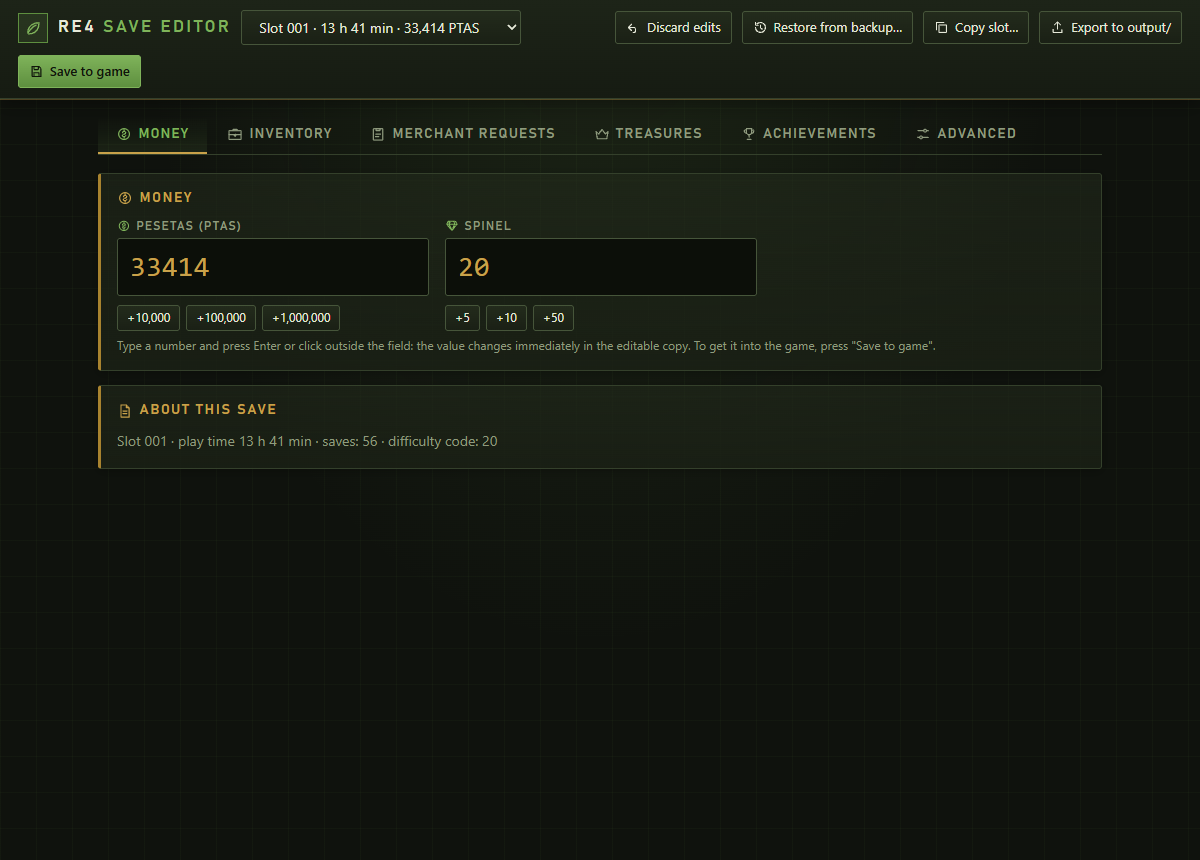
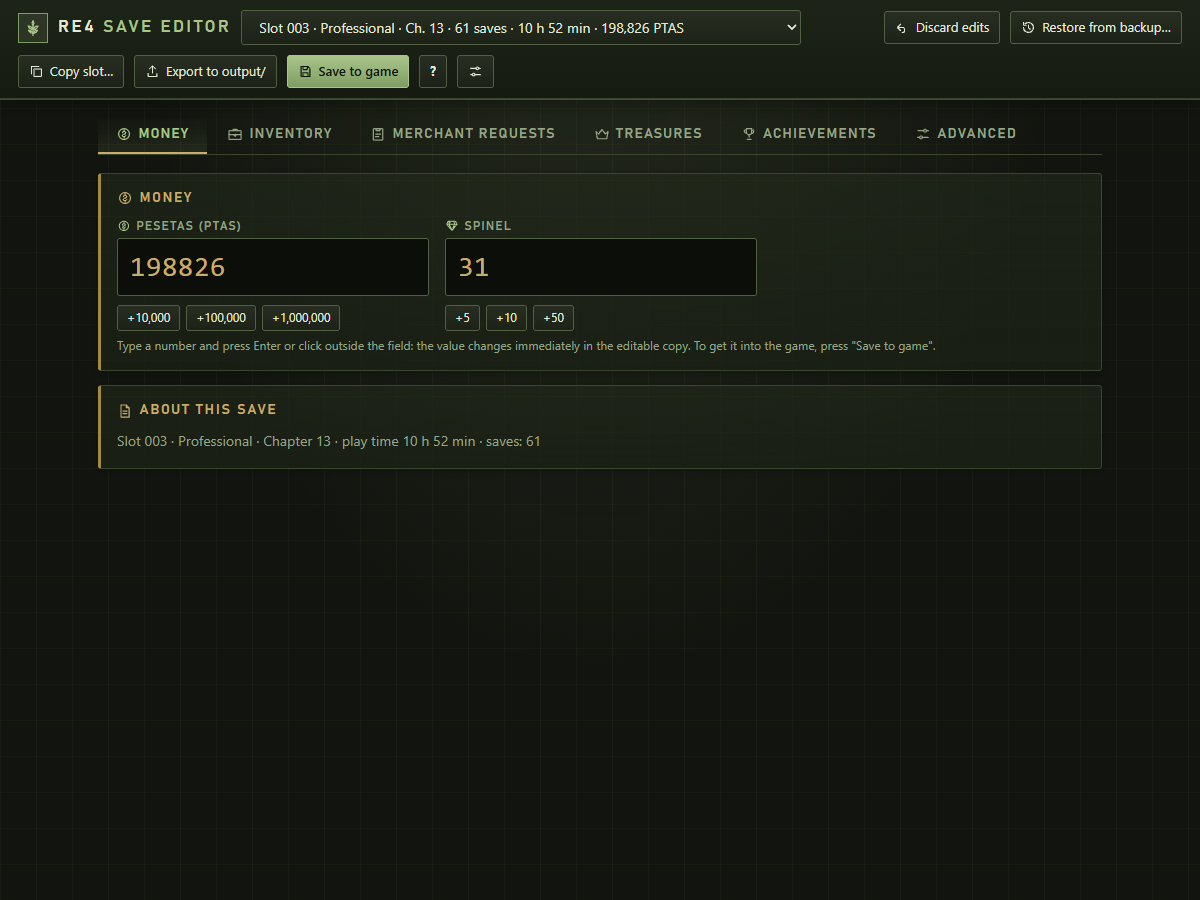
Refresh all screenshots for the new design and case view

Changed region(s): [[0.0, 0.0, 1.0, 0.5442], [0.8633, 0.1814, 0.8942, 0.2116]]

diff --git a/README.md b/README.md
@@ -35,7 +35,7 @@ It runs on your own computer, opens in your browser and never sends anything ove
 | ![Money](docs/screenshots/01-money.png) | ![Inventory](docs/screenshots/02-inventory.png) |
 | ![Case map](docs/screenshots/03-case-map.png) | ![Merchant requests](docs/screenshots/04-merchant-requests.png) |
 | ![Treasures](docs/screenshots/05-treasures.png) | ![Change summary](docs/screenshots/07-change-summary.png) |
-| ![3D case](docs/screenshots/08-case-3d.png) | ![Settings](docs/screenshots/09-settings.png) |
+| ![Case view](docs/screenshots/08-case-view.png) | ![Settings](docs/screenshots/09-settings.png) |
 
 ## Requirements
 
